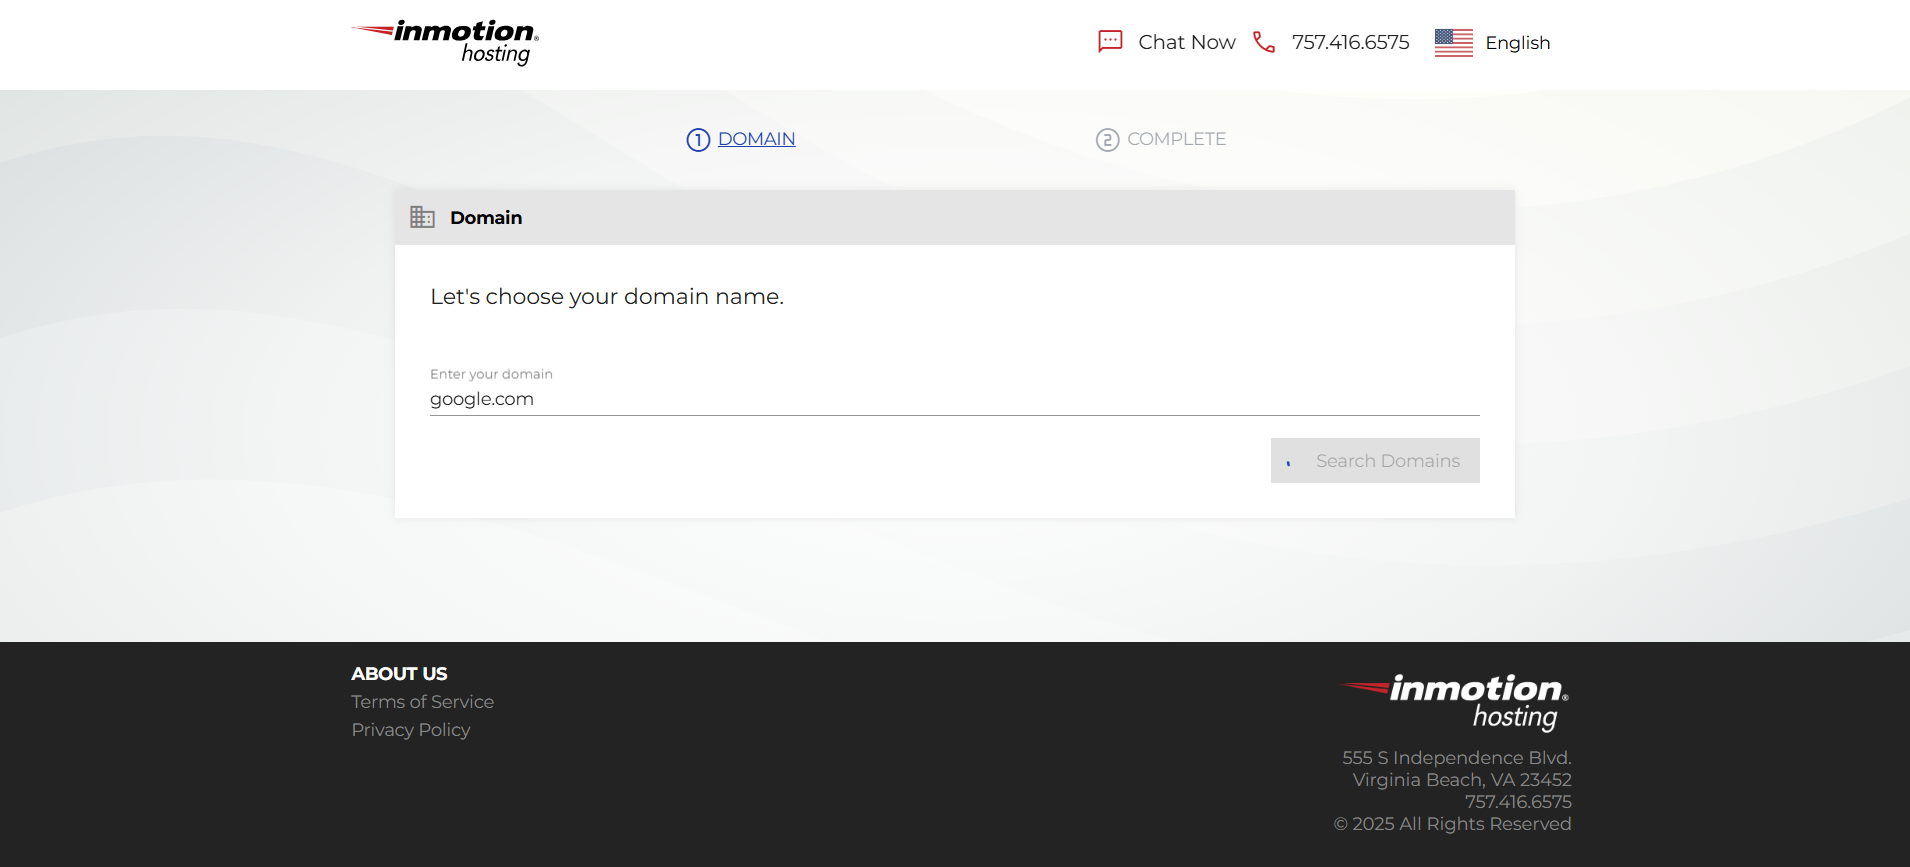
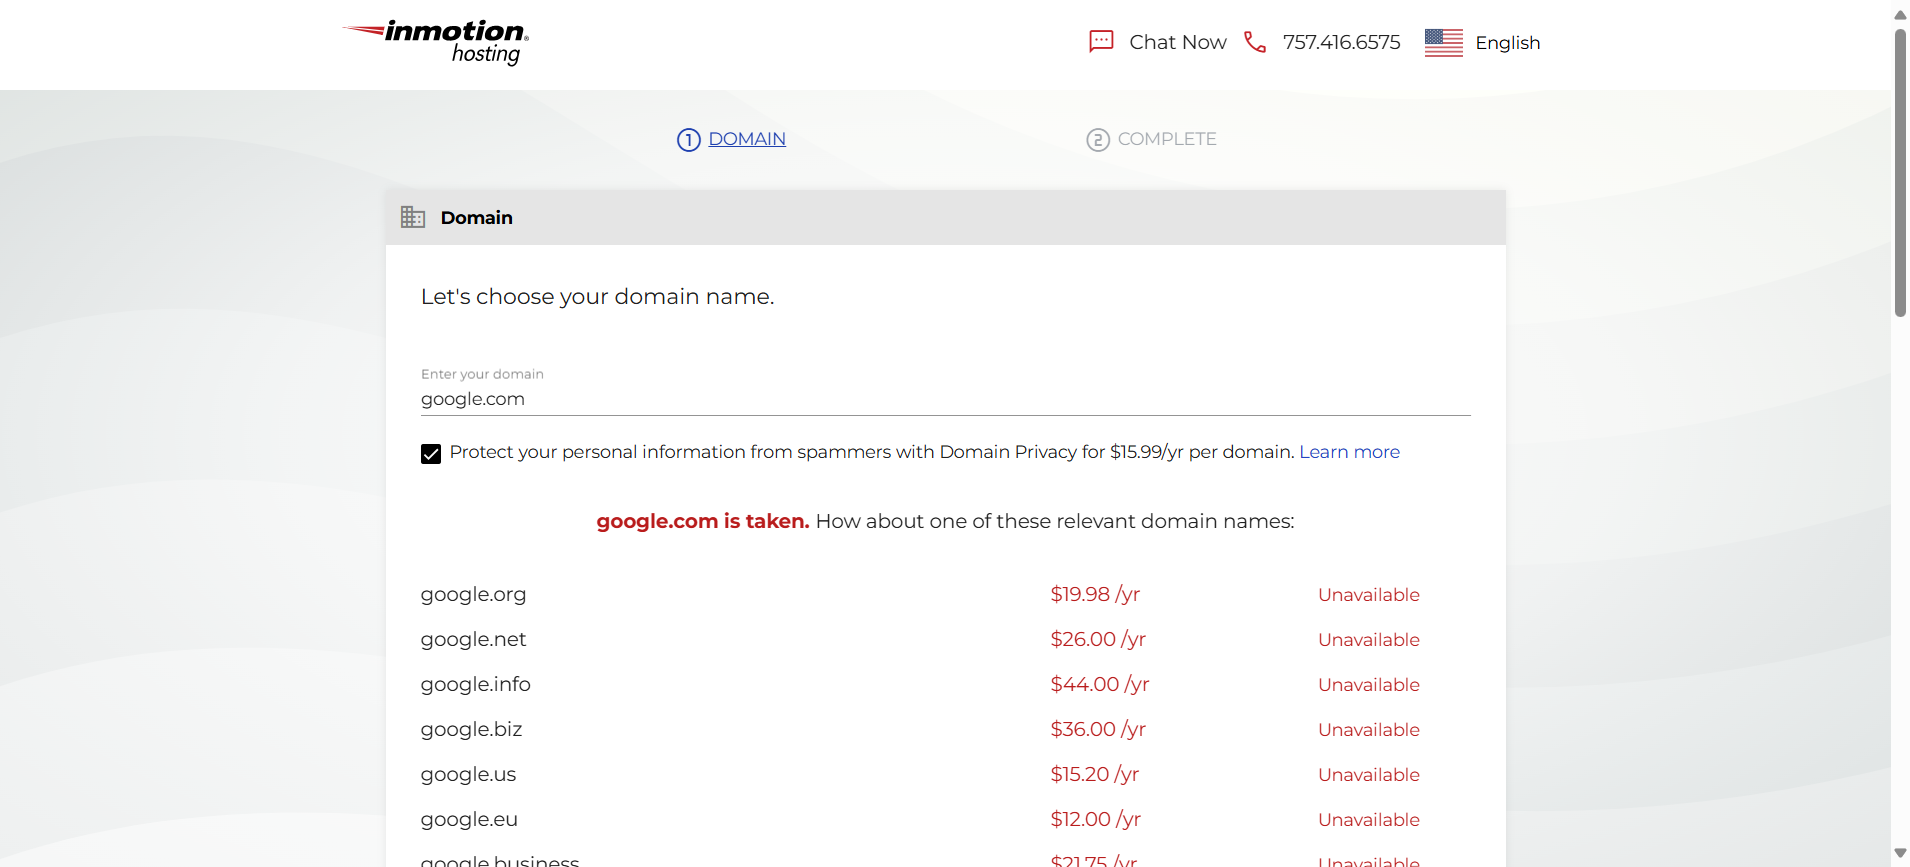
commit

diff --git a/src/test/java/Framework/Tests/WebHostingTest.java b/src/test/java/Framework/Tests/WebHostingTest.java
@@ -21,7 +21,7 @@ public class WebHostingTest extends BaseTest {
         softAssert.assertTrue(homePage.getPageTitle().contains(pageTitle));
         DomainPage domainPage = homePage.clickOnDomains();
         DomainSearchResultPage domainSearchResultPage = domainPage.searchForDomain(domainName);
-        softAssert.assertEquals(domainSearchResultPage.getTotalPrice(), domainPrice);
+        softAssert.assertEquals(domainSearchResultPage.getDomainPrice(), domainPrice);
         softAssert.assertTrue(domainSearchResultPage.checkTotalPriceAppearance());
         homePage.goTo();
         WebHostingPlansPage webHostingPlansPage=homePage.clickOnWebHostingPlans();

diff --git a/src/main/java/Framework/PageObjects/DomainSearchResultPage.java b/src/main/java/Framework/PageObjects/DomainSearchResultPage.java
@@ -16,7 +16,7 @@ public class DomainSearchResultPage extends HomePage{
     WebElement totalPrice;
 
 
-    public String getTotalPrice(){
+    public String getDomainPrice(){
         return totalPrice.getText();
     }
     public boolean checkTotalPriceAppearance() {
